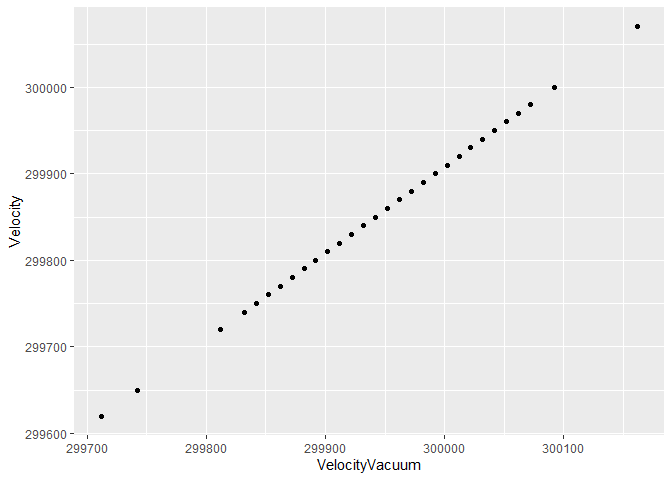
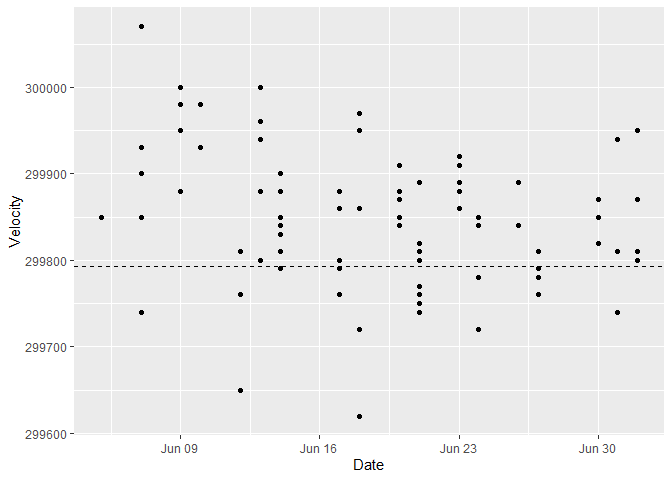
editing challenge

diff --git a/data-science-curriculum-build/challenges/c02-michelson-assignment.md b/data-science-curriculum-build/challenges/c02-michelson-assignment.md
@@ -157,12 +157,19 @@ df_q1 %>%
     ## 2 2               39      299858.
     ## 3 1               15      299808
 
-**Observations**: - Write your observations here! - -There is the
-largest number of photo with a good distinctness. The difference in the
-mean velocity between the good and fair distinctiveness is only 3.2
-km/s. - Why might your table differ from Michelson’s? - - My table might
-differ between Michelson because I did not round my velocity. It appears
-that Michelson rounded his mean velocities to the tens place.
+**Observations**: -
+
+-There is the largest number of photos with a good distinctness with a
+count of 46 photos.
+
+\- The difference in the mean velocity between the good, distinctness 3,
+and poor, distinctness 1, is 53.7 km/s.
+
+\- Why might your table differ from Michelson’s? -
+
+\- My table might differ between Michelson because I did not round my
+velocity. It appears that Michelson rounded his mean velocities to the
+tens place.
 
 The `Velocity` values in the dataset are the speed of light *in air*;
 Michelson introduced a couple of adjustments to estimate the speed of
@@ -178,7 +185,7 @@ in the dataset.
 ## TODO: Adjust the data, assign to df_q2
 df_q2 <- 
   df_michelson %>%
-  mutate(`VelocityVacuum` = Velocity +92)
+  mutate(`VelocityVacuum` = Velocity + 92)
 df_q2
 ```
 
@@ -226,7 +233,7 @@ than the true error?
 ``` r
 ## TODO: Compare Michelson's estimate and error against the true value
 True_error <- LIGHTSPEED_VACUUM - LIGHTSPEED_MICHELSON
-Michealson_error <- LIGHTSPEED_PM
+Michealson_error <- -LIGHTSPEED_PM
 True_error
 ```
 
@@ -236,7 +243,14 @@ True_error
 Michealson_error
 ```
 
-    ## [1] 51
+    ## [1] -51
+
+``` r
+compairison <- True_error/Michealson_error
+compairison
+```
+
+    ## [1] 2.971412
 
 **Observations**:
 
@@ -245,7 +259,7 @@ Michealson_error
   - Michelson estimate of the error is less than true error.
 - Make a quantitative comparison between Michelson’s uncertainty and his
   error.
-  - The true error is 2.98 times Michelson’s uncertainty.
+  - Michelson’s uncertainty is 2.97 times smaller than his error.
 
 The following plot shows all of Michelson’s data as a [control
 chart](https://en.wikipedia.org/wiki/Control_chart); this sort of plot
@@ -326,33 +340,48 @@ df_q2 %>%
 
 ![](c02-michelson-assignment_files/figure-gfm/q4-cf-real-simulated-1.png)<!-- -->
 
-**Observations**: Similarities - Both the real and simulated charts have
-the same upper and lower control lines - Both the real and simulated
-lines of dots for each day. Differences - The mean of each day crosses
-the control lines more on the real data. - Real data has more outliers
-that are further away from the control lines.
+**Observations**: Similarities
+
+- Both the real and simulated charts have the same upper and lower
+  control limits.
+
+\- Both the real and simulated data have multiple measurement for each
+day that the experiment was ran.
+
+Differences -
+
+\- The mean of each day crosses the control lines more on the real data.
+
+- Real data has more outliers that are further away from the control
+  lines.
 
 ### **q5** You have access to a few other variables. Construct a **at least three** visualizations of `VelocityVacuum` against these other factors. Are there other patterns in the data that might help explain the difference between Michelson’s estimate and `LIGHTSPEED_VACUUM`?
 
 ``` r
 df_q2 %>%
   ggplot(aes(Distinctness,VelocityVacuum)) +
-  geom_boxplot()
+  geom_boxplot() +
+  geom_hline(yintercept = LIGHTSPEED_VACUUM, linetype = "dashed")
 ```
 
 ![](c02-michelson-assignment_files/figure-gfm/unnamed-chunk-2-1.png)<!-- -->
+
 **Observations**:
 
 - Only values with distinctness 1,2 have outliers outside of the box and
   whisker plot. - Values with a distinctness 3 has the largest IQR
   range.
-- The mean of the velocityvaccum increases as the distincness increases
+- The mean of the velocityvaccum increases as the distinctiveness
+  increases.
+- It is unlikely that the distinctiveness led to the difference between
+  Michealson’s estimate and the true value.
 
 ``` r
 df_q2 %>%
   ggplot(aes(Temp,VelocityVacuum)) +
   geom_point()+
-  geom_smooth(method=lm)
+  geom_smooth(method=lm) +
+  geom_hline(yintercept = LIGHTSPEED_VACUUM, linetype = "dashed")
 ```
 
     ## `geom_smooth()` using formula = 'y ~ x'
@@ -363,18 +392,25 @@ df_q2 %>%
 
 - As the tempurature increases, the trend line for velocityvacuum also
   increases.
+- It is possible that the increase in ambient tempurature could explain
+  some of the differences in Michealson’s estimate and the true value
+  since the density of air changes with temperature.
 
 ``` r
 df_q2 %>%
-  ggplot(aes(VelocityVacuum,Velocity)) +
-  geom_point()
+  ggplot() +
+  geom_point(aes(x = Date, y = Velocity)) +
+  geom_hline(yintercept = LIGHTSPEED_VACUUM, linetype = "dashed")
 ```
 
 ![](c02-michelson-assignment_files/figure-gfm/unnamed-chunk-4-1.png)<!-- -->
+
 **Observations**:
 
-- The difference between VelocityVaccum and Velocity is a constant of 92
-  km/s.
+- The date when the measurement took place does not seem to explain the
+  difference between Michealson’s estimate and the true value.
+- For data points collected on the same date, there is still a large
+  between the data points.
 
 ## Bibliography
 
